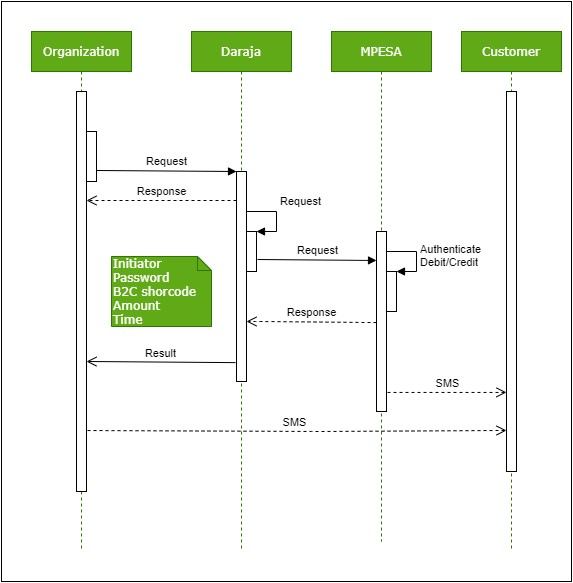
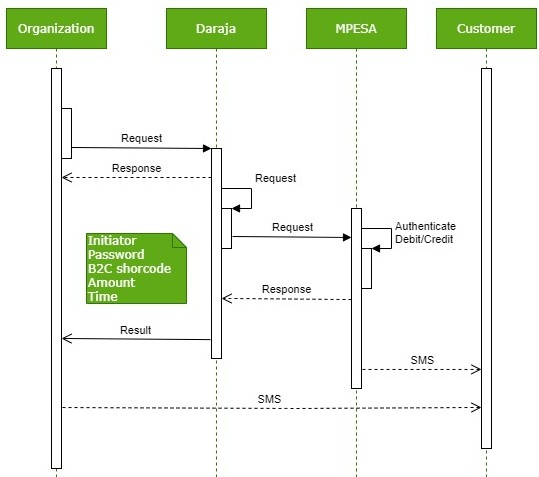
fix: update img component UI

diff --git a/apps/daraja-docs-platform/src/features/markdown/components/MDXComponents.tsx b/apps/daraja-docs-platform/src/features/markdown/components/MDXComponents.tsx
@@ -19,6 +19,7 @@ import {
     useTheme,
     Stack,
     Tooltip,
+    Dialog,
 } from '@mui/material';
 import InfoOutlineIcon from '@mui/icons-material/InfoOutline';
 import ReportGmailerrorredIcon from '@mui/icons-material/ReportGmailerrorred';
@@ -36,6 +37,7 @@ import {
     ResponseExampleProps,
 } from '../types';
 import { useCopyToClipboard } from '../../../shared/hooks';
+import Image from 'next/image';
 
 export const MDXComponents = {
     h1: (props: MDXElementProps) => (
@@ -130,7 +132,95 @@ export const MDXComponents = {
         />
     ),
 
-    img: (props: MDXElementProps) => <Box component="img" sx={{ maxWidth: '100%', borderRadius: 1 }} {...props} />,
+    Image: ({ src, alt }: MDXElementProps) => {
+        const [open, setOpen] = useState(false);
+
+        return (
+            <>
+                <Box
+                    sx={{
+                        maxHeight: 'max-content',
+                        width: { xs: '100%', sm: '100%', md: '85%' },
+                        mx: 'auto',
+                        backgroundColor: 'action.hover',
+                        padding: 1.5,
+                        borderRadius: 6,
+                        position: 'relative',
+                        overflow: 'hidden',
+                        backgroundImage: (theme) => `
+                linear-gradient(to right, ${
+                    theme.palette.mode === 'dark' ? 'rgba(255, 255, 255, 0.05)' : 'rgba(0, 0, 0, 0.05)'
+                } 1px, transparent 1px),
+                linear-gradient(to bottom, ${
+                    theme.palette.mode === 'dark' ? 'rgba(255, 255, 255, 0.05)' : 'rgba(0, 0, 0, 0.05)'
+                } 1px, transparent 1px)
+            `,
+                        backgroundSize: '10px 10px',
+                    }}
+                >
+                    <Box
+                        sx={{
+                            borderRadius: 4,
+                            maxHeight: { xs: 200, sm: 300 },
+                            minHeight: { xs: 200, sm: 300 },
+                            height: { xs: 200, sm: 300 },
+                            overflow: 'hidden',
+                            cursor: 'zoom-in',
+                        }}
+                        onClick={() => setOpen(true)}
+                    >
+                        <Image
+                            src={src!}
+                            alt={alt!}
+                            height={2640}
+                            width={2640}
+                            priority
+                            style={{
+                                height: '100%',
+                                width: '100%',
+                                borderRadius: '16px',
+                                objectFit: 'cover',
+                            }}
+                        />
+                    </Box>
+                </Box>
+
+                <Dialog
+                    maxWidth="xl"
+                    open={open}
+                    sx={{
+                        backdropFilter: 'blur(10px)',
+                        '& .MuiPaper-root': {
+                            boxShadow: 'none',
+                            backgroundImage: 'none',
+                            backgroundColor: 'transparent !important',
+                        },
+                    }}
+                    onClose={() => setOpen(false)}
+                >
+                    <Box
+                        sx={{
+                            cursor: 'zoom-out',
+                        }}
+                        onClick={() => setOpen(false)}
+                    >
+                        <Image
+                            src={src!}
+                            alt={alt!}
+                            height={1440}
+                            width={1440}
+                            priority
+                            style={{
+                                height: 600,
+                                width: '100%',
+                                objectFit: 'contain',
+                            }}
+                        />
+                    </Box>
+                </Dialog>
+            </>
+        );
+    },
 
     hr: () => (
         <Box
